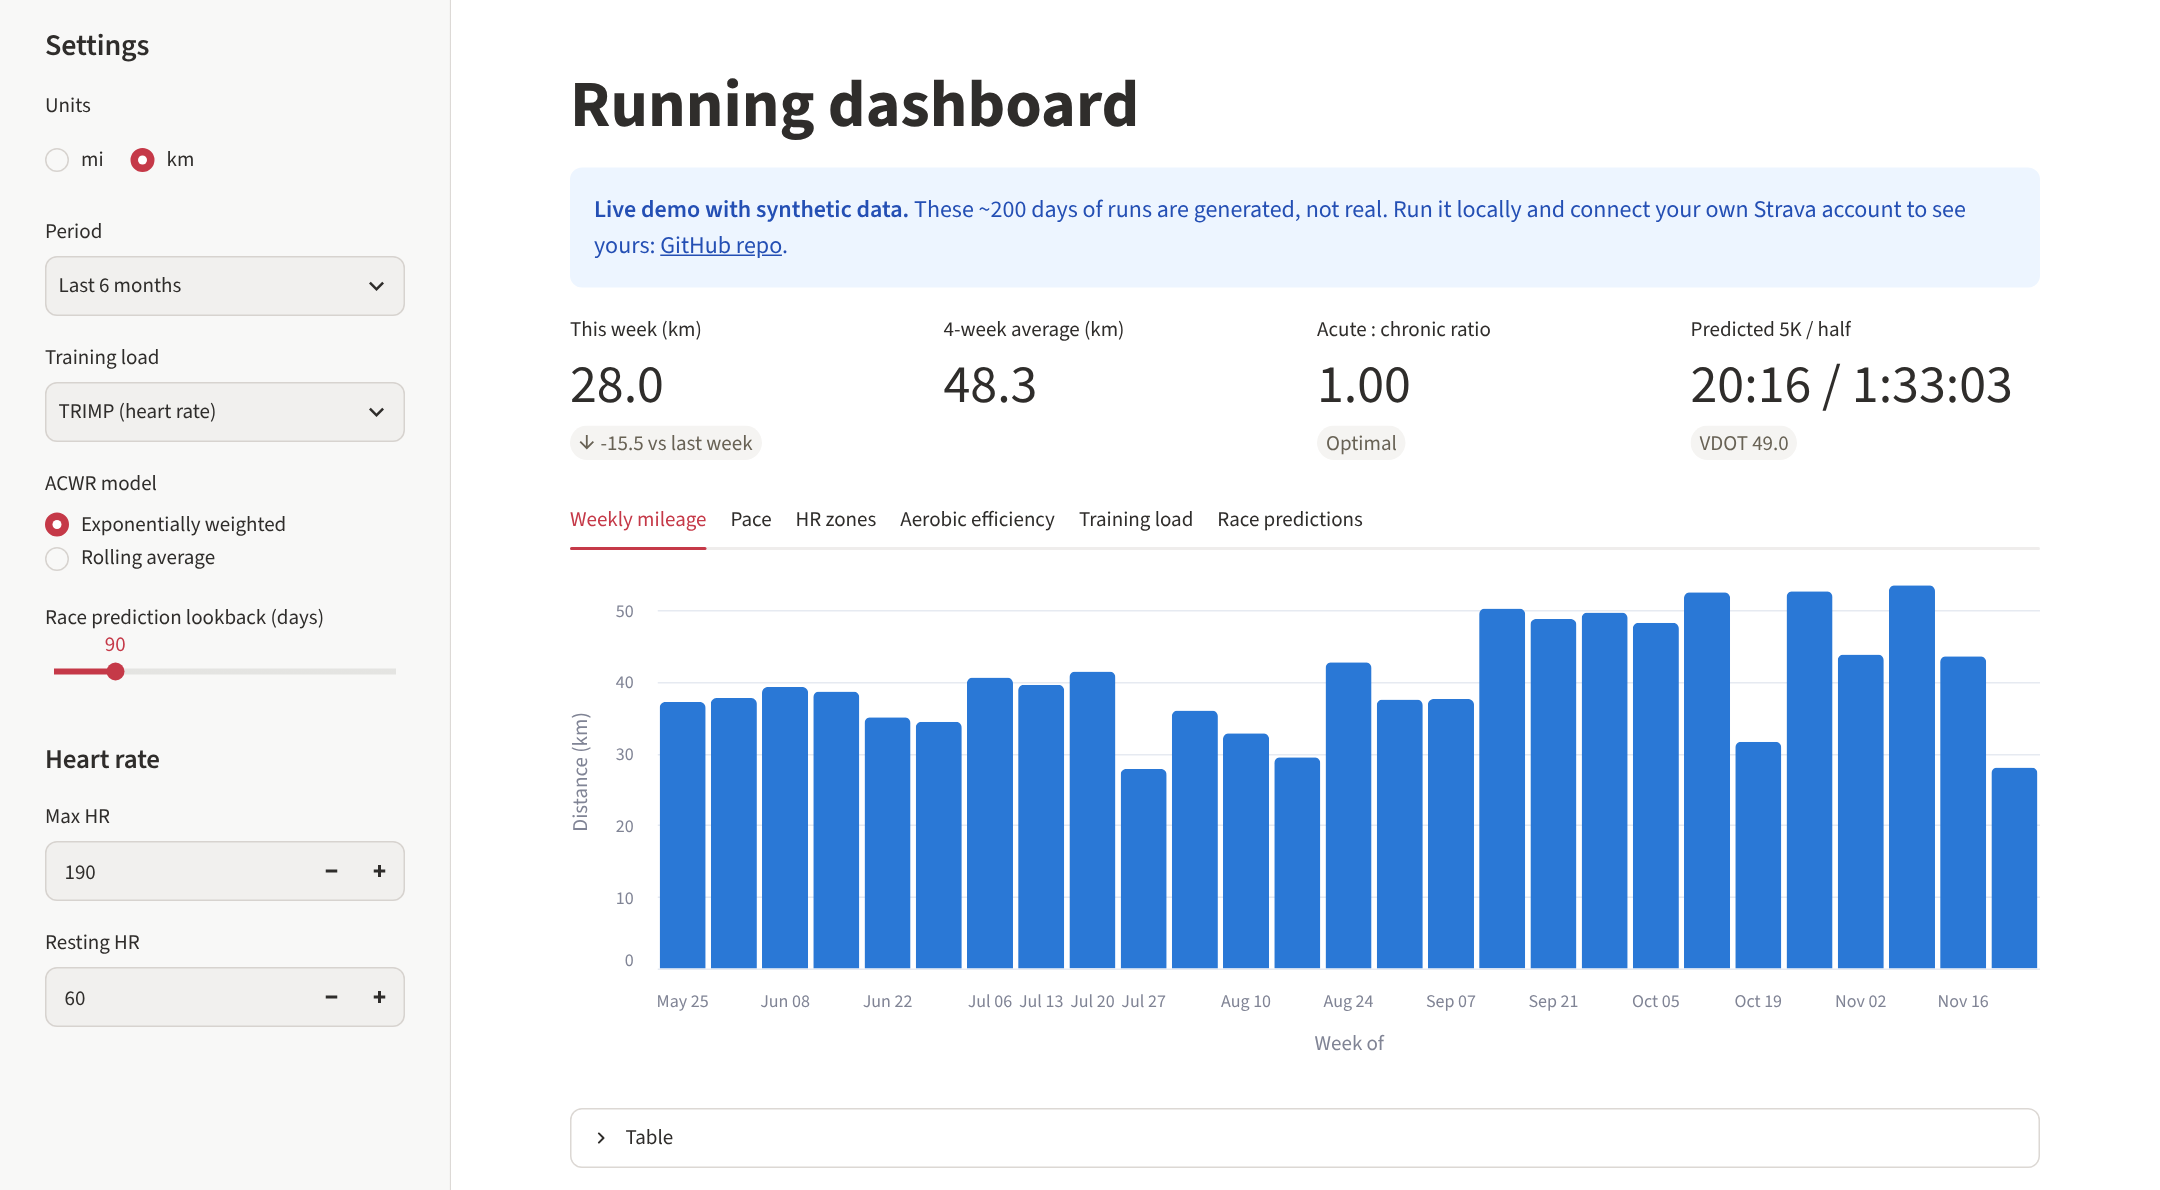
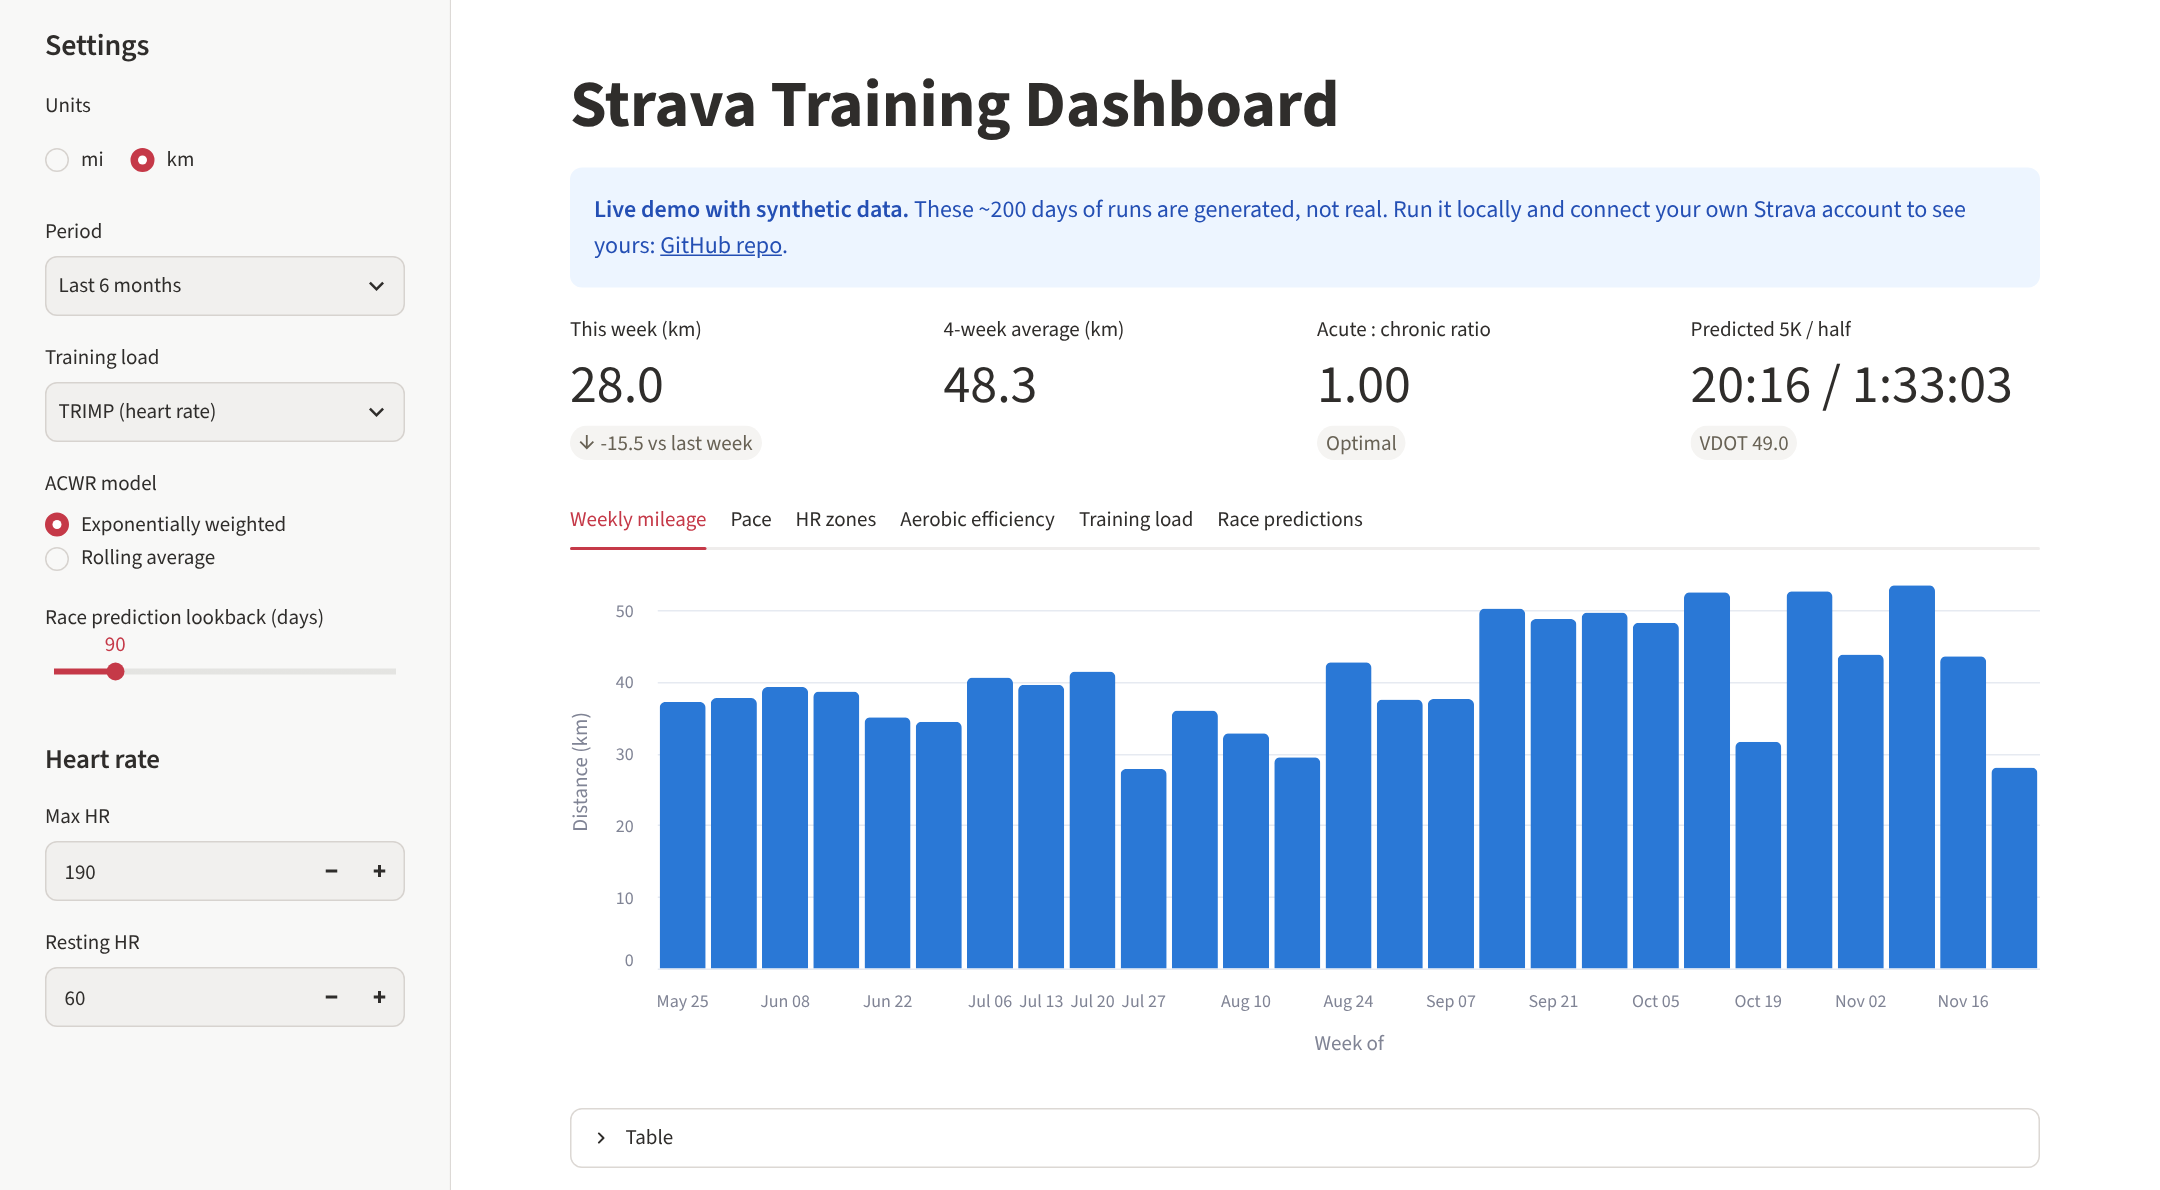
Recruiter-friendly README and demo polish
Add a 'What this project shows' summary, fold setup/methodology/developer sections into collapsible blocks, rename the app to Strava Training Dashboard, credit the author in the footer, and hide server paths and Strava-specific wording in the synthetic demo.

Changed region(s): [[0.2481, 0.0622, 0.6204, 0.1244]]

diff --git a/src/strava_dashboard/dashboard.py b/src/strava_dashboard/dashboard.py
@@ -22,6 +22,10 @@ MUTED = "#898781"
 ZONE_RAMP = ["#86b6ef", "#5598e7", "#2a78d6", "#1c5cab", "#184f95"]
 STATUS = {"Optimal": "#0ca30c", "Elevated": "#fab219", "High": "#d03b3b"}
 
+REPO_URL = "https://github.com/GuillermoMorfin/strava-dashboard"
+GITHUB_URL = "https://github.com/GuillermoMorfin"
+LINKEDIN_URL = "https://www.linkedin.com/in/guillermo-morfin-guerrero"
+
 PERIODS = {"Last 12 weeks": 84, "Last 6 months": 182, "Last year": 365, "All time": None}
 LOAD_LABELS = {
     "trimp": "TRIMP (heart rate)",
@@ -466,8 +470,8 @@ def races_tab(effort: pd.Series | None, units: str, lookback: int) -> None:
 
 
 def main() -> None:
-    st.set_page_config(page_title="Running dashboard", page_icon="🏃", layout="wide")
-    st.title("Running dashboard")
+    st.set_page_config(page_title="Strava Training Dashboard", page_icon="🏃", layout="wide")
+    st.title("Strava Training Dashboard")
     try:
         settings = Settings.from_env()
     except ConfigError as exc:
@@ -475,11 +479,12 @@ def main() -> None:
         st.stop()
     path = settings.db_path
 
-    if os.environ.get("STRAVA_DEMO_MODE"):
+    demo = bool(os.environ.get("STRAVA_DEMO_MODE"))
+    if demo:
         st.info(
             "**Live demo with synthetic data.** These ~200 days of runs are generated, not "
             "real. Run it locally and connect your own Strava account to see yours: "
-            "[GitHub repo](https://github.com/GuillermoMorfin/strava-dashboard)."
+            f"[GitHub repo]({REPO_URL})."
         )
     if not path.exists():
         st.info(
@@ -521,7 +526,12 @@ def main() -> None:
     start = today - timedelta(days=days) if days else activities["start_date_local"].min()
 
     if stored_zones:
-        zones, zones_note = stored_zones, "Heart-rate zones from your Strava profile."
+        zones = stored_zones
+        zones_note = (
+            "Demo heart-rate zones (synthetic athlete with a 190 bpm max)."
+            if demo
+            else "Heart-rate zones from your Strava profile."
+        )
     else:
         zones = m.default_hr_zones(int(max_hr))
         zones_note = f"Zones estimated at 60/70/80/90% of max HR ({int(max_hr)} bpm)."
@@ -592,10 +602,12 @@ def main() -> None:
     with tabs[5]:
         races_tab(effort, units, lookback)
 
+    source = "synthetic demo data" if demo else f"data from `{path}`"
     st.caption(
         f"{len(activities)} runs · last activity "
-        f"{activities['start_date_local'].max():%b %d, %Y} · data from `{path}`"
+        f"{activities['start_date_local'].max():%b %d, %Y} · {source}"
     )
+    st.caption(f"Built by Guillermo Morfin · [GitHub]({GITHUB_URL}) · [LinkedIn]({LINKEDIN_URL})")
 
 
 main()

diff --git a/tests/test_demo_app.py b/tests/test_demo_app.py
@@ -41,3 +41,8 @@ def test_hosted_demo_renders_with_banner(monkeypatch):
     assert "synthetic data" in at.info[0].value
     assert len(at.tabs) == 6
     assert (ROOT / "data" / "demo.duckdb").exists()
+    captions = " ".join(c.value for c in at.caption)
+    assert "synthetic demo data" in captions
+    assert "data from" not in captions  # no server paths in the public demo
+    assert "Built by Guillermo Morfin" in captions
+    assert "Demo heart-rate zones" in captions

diff --git a/tests/test_dashboard.py b/tests/test_dashboard.py
@@ -43,6 +43,8 @@ def test_renders_all_tabs_with_demo_data(monkeypatch, demo_db):
     assert "/" in metrics["Predicted 5K / half"]
     # weekly, pace, 2x zones + intensity trend, 2x efficiency, 2x load
     assert len(at.get("vega_lite_chart")) == 9
+    captions = " ".join(c.value for c in at.caption)
+    assert "data from" in captions and "Built by Guillermo Morfin" in captions
 
 
 @pytest.mark.parametrize("load_method", ["trimp", "distance", "duration"])

diff --git a/README.md b/README.md
@@ -1,11 +1,11 @@
-# strava-dashboard
+# Strava Training Dashboard
 
 [![CI](https://github.com/GuillermoMorfin/strava-dashboard/actions/workflows/ci.yml/badge.svg)](https://github.com/GuillermoMorfin/strava-dashboard/actions/workflows/ci.yml)
 ![Python 3.11+](https://img.shields.io/badge/python-3.11%2B-blue)
 [![License: MIT](https://img.shields.io/badge/license-MIT-green)](LICENSE)
 
-Pull your running activities from the Strava API into a local DuckDB file and explore
-them in a Streamlit dashboard.
+Pull your running activities from the Strava API into a local DuckDB database and turn them
+into training insights in an interactive Streamlit dashboard.
 
 **[▶ Try the live demo](https://guillermomorfin-strava-dashboard.streamlit.app)** (synthetic data, nothing to install)
 
@@ -21,6 +21,20 @@ them in a Streamlit dashboard.
     <td><img src="docs/pace.png" alt="Pace trend with rolling median"><br><sub><b>Pace trend</b>: every run plus a rolling median</sub></td>
   </tr>
 </table>
+
+## What this project shows
+
+- **End-to-end data pipeline:** OAuth 2.0 login to the Strava API, incremental sync that
+  respects rate limits and resumes where it stopped, and storage in DuckDB.
+- **Analytics grounded in sports science:** time in heart-rate zones from second-by-second
+  data, 80/20 intensity balance, aerobic efficiency, training load (Banister TRIMP, acute:chronic
+  ratio) and race predictions, each with its assumptions and limits
+  [documented](#how-the-metrics-are-calculated).
+- **Tested, maintainable code:** ~100 automated tests (Strava API mocked, metrics checked
+  against published tables and hand calculations), linting and CI on every push.
+- **Shipped, privacy-first:** a deployed [live demo](https://guillermomorfin-strava-dashboard.streamlit.app)
+  runs on synthetic data, so anyone can try it without an account, while real training data
+  never leaves the runner's own machine.
 
 ## Why I built this
 
@@ -45,7 +59,7 @@ The [live demo](https://guillermomorfin-strava-dashboard.streamlit.app) only eve
 generated runs; it has no Strava connection.
 
 **Built with:** Python, Strava REST API (OAuth 2.0), httpx, DuckDB, pandas, Streamlit and
-Altair, pytest (HTTP mocked, ~90 tests), ruff, GitHub Actions CI.
+Altair, pytest, ruff, GitHub Actions, Streamlit Community Cloud.
 
 ## Quick start (no Strava account needed)
 
@@ -60,6 +74,9 @@ strava-dash dashboard --db data/demo.duckdb    # opens http://localhost:8501
 Requires Python 3.11+.
 
 ## Connecting your Strava account
+
+<details>
+<summary>Step-by-step setup: Strava API app, <code>.env</code>, authorization and sync</summary>
 
 ### 1. Create a Strava API application (one time)
 
@@ -130,7 +147,12 @@ streams cost one request each, so a first sync with years of history takes a few
 so if Strava returns `429`, everything fetched so far is kept and the next run continues
 from there.
 
+</details>
+
 ## Configuration
+
+<details>
+<summary>Environment variables</summary>
 
 Set these in `.env` or as environment variables.
 
@@ -146,7 +168,12 @@ Set these in `.env` or as environment variables.
 
 Units, max/resting HR, the period, and the load and ACWR models can also be changed in the dashboard sidebar.
 
+</details>
+
 ## How the metrics are calculated
+
+<details>
+<summary>Methodology for each metric, with assumptions and limits</summary>
 
 All metric code is in [`src/strava_dashboard/metrics.py`](src/strava_dashboard/metrics.py)
 as pure pandas functions.
@@ -203,7 +230,14 @@ default), ignoring implausible GPS speeds. It then predicts each distance two wa
 Predictions are only as good as the effort behind them. A recent race or hard time trial
 works best, and marathon predictions run optimistic without long-run training.
 
-## Project layout
+</details>
+
+## For developers
+
+<details>
+<summary>Project layout, database schema, hosted demo and tests</summary>
+
+### Project layout
 
 ```
 src/strava_dashboard/
@@ -234,7 +268,7 @@ You can query the data directly:
 duckdb data/strava.duckdb "SELECT date_trunc('month', start_date_local) m, round(sum(distance_m)/1609.344) mi FROM activities GROUP BY m ORDER BY m"
 ```
 
-## Hosted demo
+### Hosted demo
 
 `streamlit_app.py` is the entry point used on Streamlit Community Cloud. It always serves
 synthetic data: on first load each day it regenerates `data/demo.duckdb` (so the charts end
@@ -245,7 +279,7 @@ To deploy your own copy: fork the repo, then at <https://share.streamlit.io> cre
 from your fork with main file `streamlit_app.py` and Python 3.11 or newer. `requirements.txt`
 installs the package. No secrets are needed.
 
-## Development
+### Running the tests
 
 ```bash
 pip install -e ".[dev]"
@@ -257,7 +291,12 @@ Tests mock all HTTP with `httpx.MockTransport`, use in-memory DuckDB, check the 
 against known values (Daniels' VDOT tables, hand-computed TRIMP/ACWR), and render the
 dashboard headlessly against demo data.
 
+</details>
+
 ## Troubleshooting
+
+<details>
+<summary>Common problems and fixes</summary>
 
 | Problem | Fix |
 |---|---|
@@ -272,6 +311,8 @@ dashboard headlessly against demo data.
 
 To disconnect the app, revoke it at <https://www.strava.com/settings/apps> and delete
 `.strava_tokens.json`.
+
+</details>
 
 ## License
 
